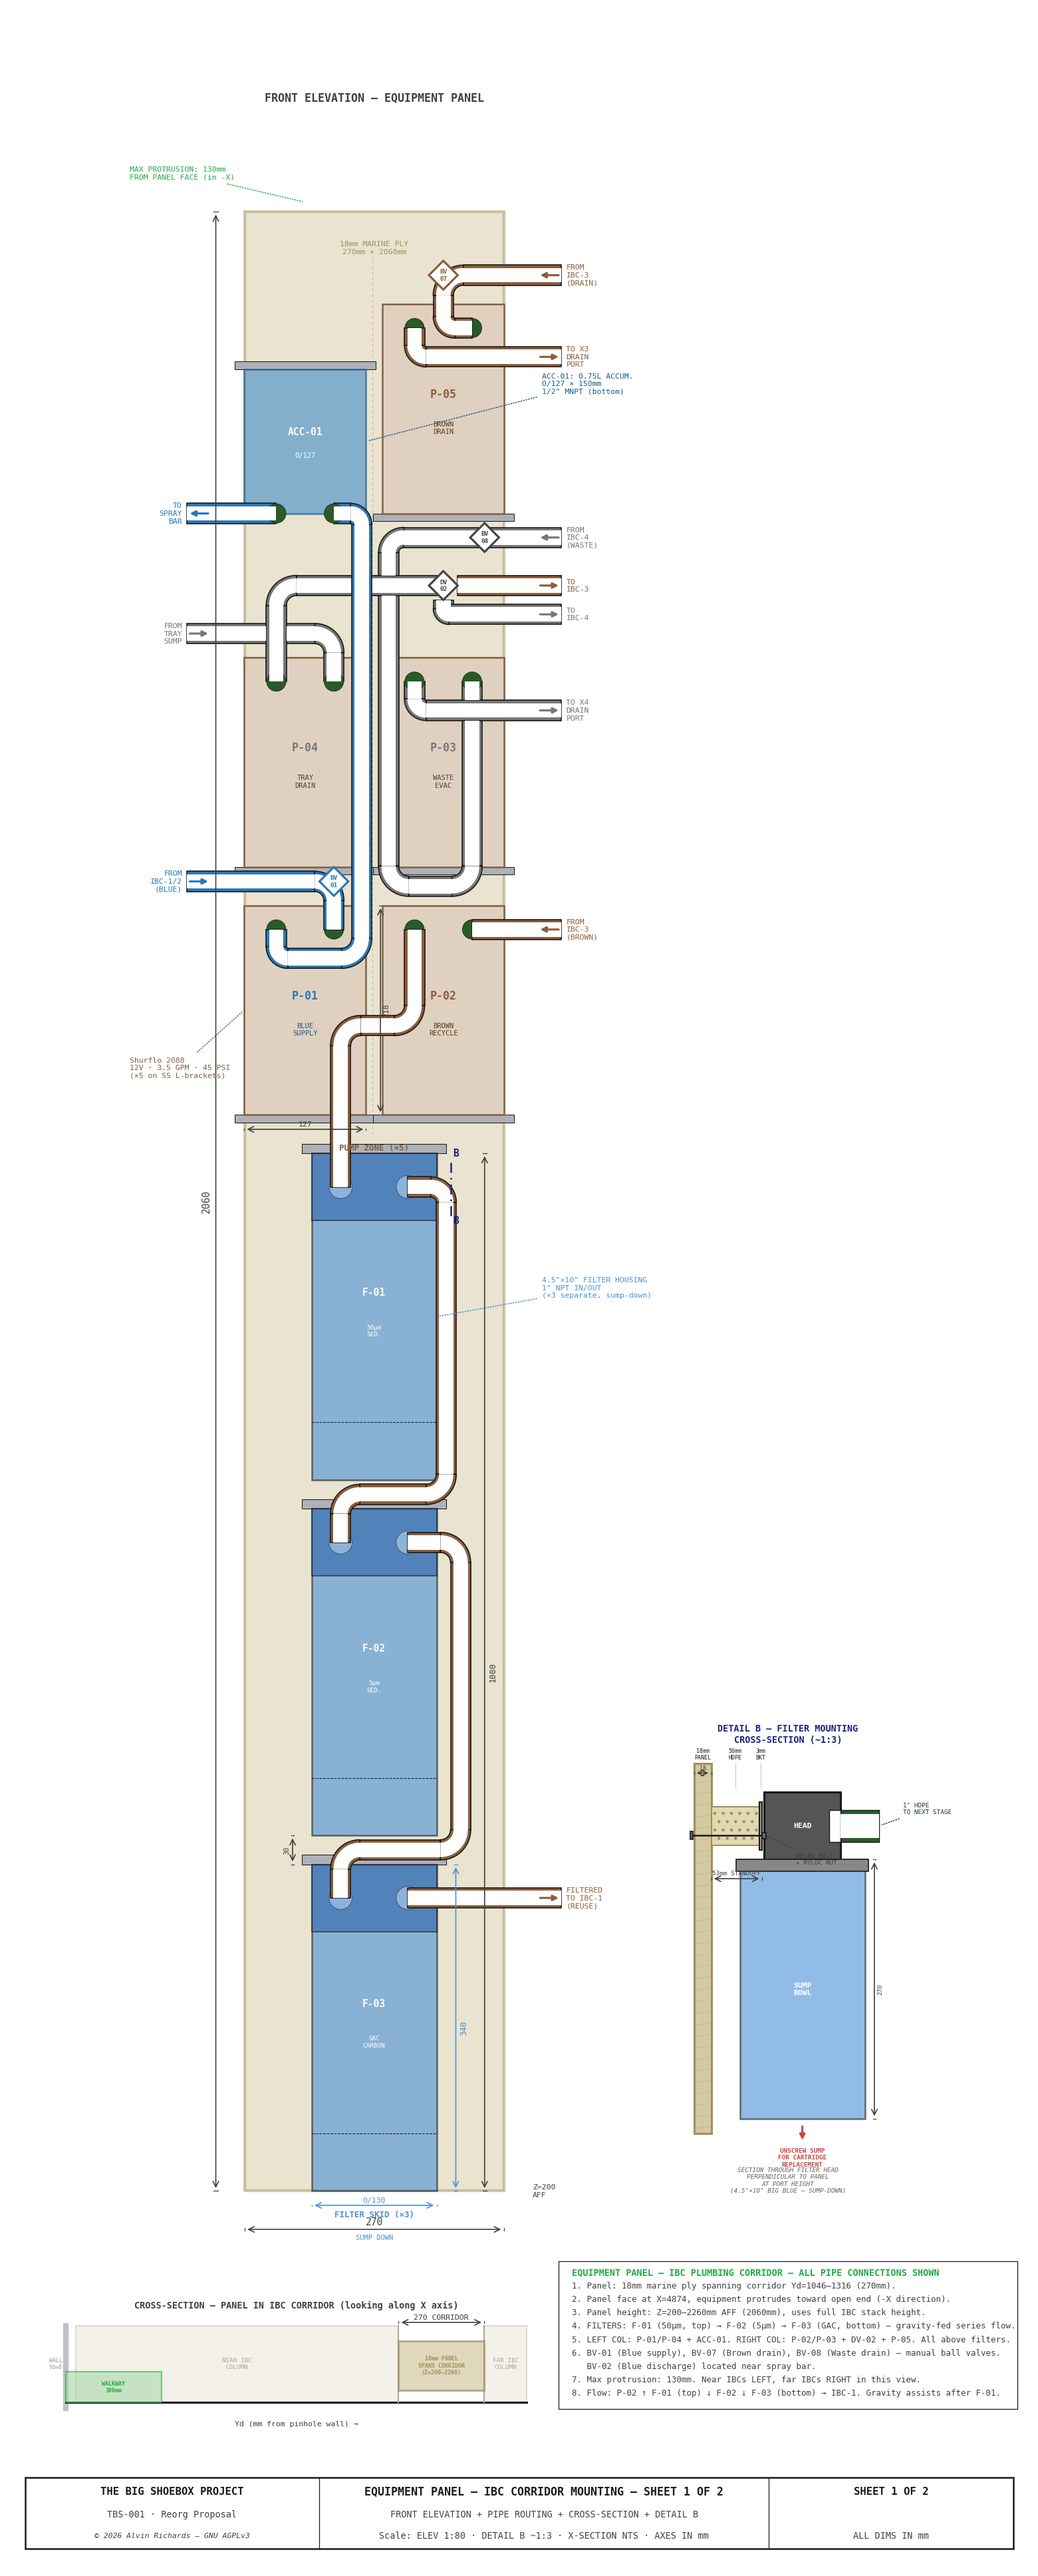
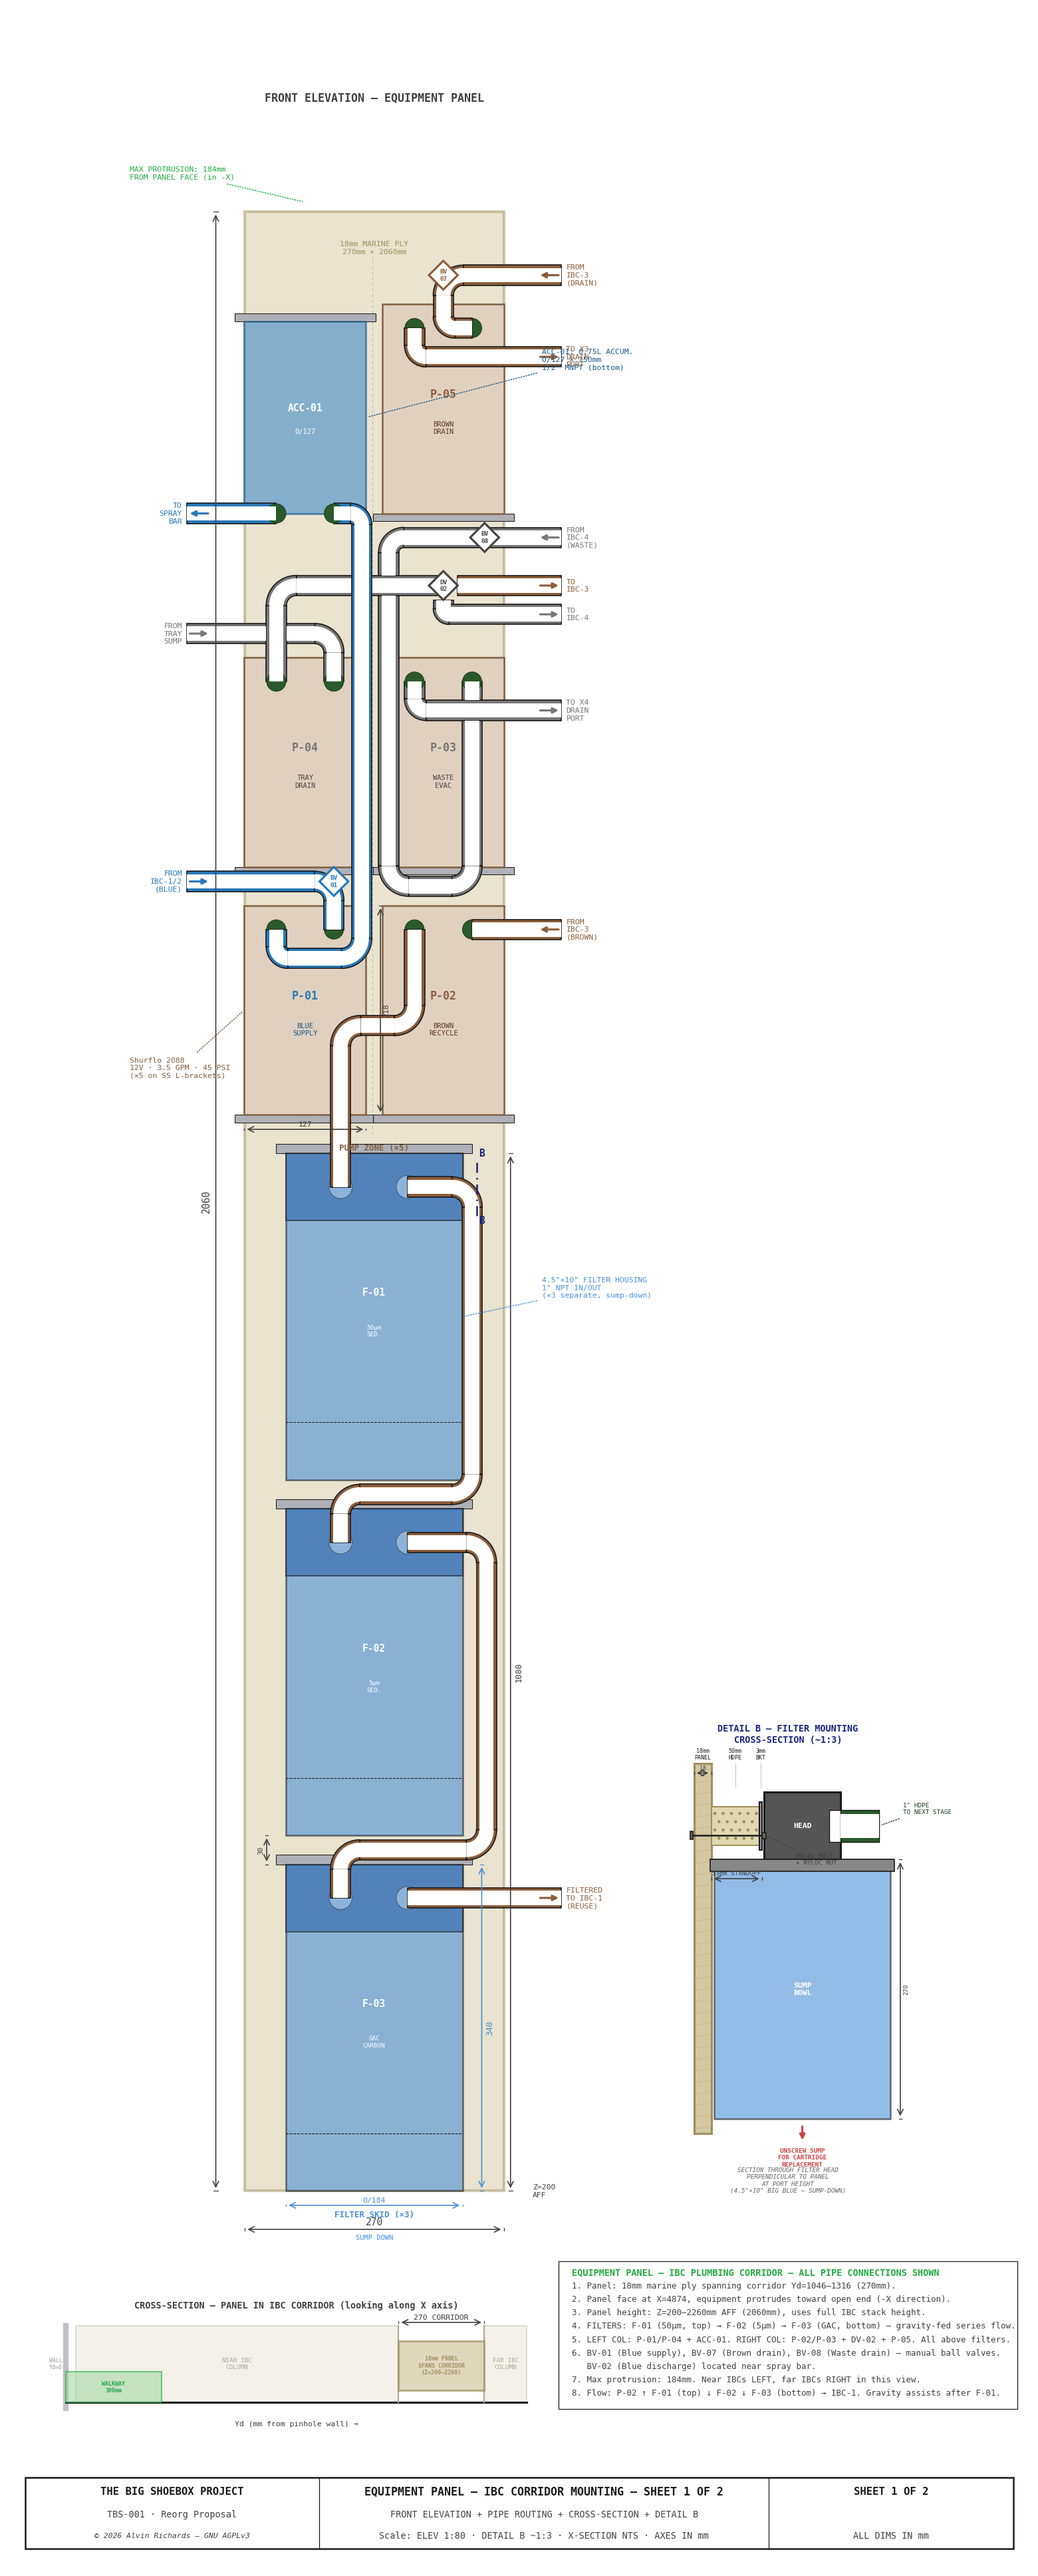
dimension-audit: fix the 2D diagrams the audit changes missed
- panel-layout DUPLICATED the dims with its own hardcodes (didn't import the
  shared constants): FILT_OD 130->184, ACC_LEN 150->200, PUMP_D 100->114 -> now
  matches BB_OD / the 3D ACC / the shared PUMP_D (flagged KEEP IN SYNC).
- pinhole-wall-elevation + shelf-sheet1 show the battery (BA_*) but were missed
  in the first regen batch — refreshed for the battery resize/reposition.
All 2D diagrams now reflect the audit dimension changes.

diff --git a/src/generators/generate_panel_layout.py b/src/generators/generate_panel_layout.py
@@ -45,16 +45,16 @@ PANEL_Z_AFF = 200  # panel bottom Z above finished floor
 # ── Shurflo 2088 pump dimensions ─────────────────────────────────────────
 PUMP_W   = 127   # front face width (mm)
 PUMP_H   = 218   # front face height (mm) — body length, vertical mount
-PUMP_D   = 100   # depth from panel (mm)
+PUMP_D   = 114   # depth from panel (mm) — = tbs_constants PUMP_D (real Shurflo 2088 height 4.5"); KEEP IN SYNC
 PUMP_GAP = 40    # vertical gap between pumps (mm)
 PORT_HALF = 30   # half of port-to-port spacing (mm)
 
 # ── Accumulator ───────────────────────────────────────────────────────────
 ACC_OD  = 127    # body OD (mm)
-ACC_LEN = 150    # body length (mm) — vertical mount, port at bottom
+ACC_LEN = 200    # body length (mm) — real SeaFlo 0.75L ~200; KEEP IN SYNC with the 3D equipment_panel() ACC cylinder
 
 # ── Filter housing (separate, 4.5"×10") ──────────────────────────────────
-FILT_OD  = 130   # housing OD (mm)
+FILT_OD  = 184   # housing OD (mm) — = tbs_constants BB_OD (real Big Blue 4.5x10 = Ø184); KEEP IN SYNC
 FILT_H   = 340   # total height (mm) — head + sump, hung vertically
 FILT_GAP = 30    # gap between housings (mm)
 FILT_HEAD = 70   # head section height (mm)
